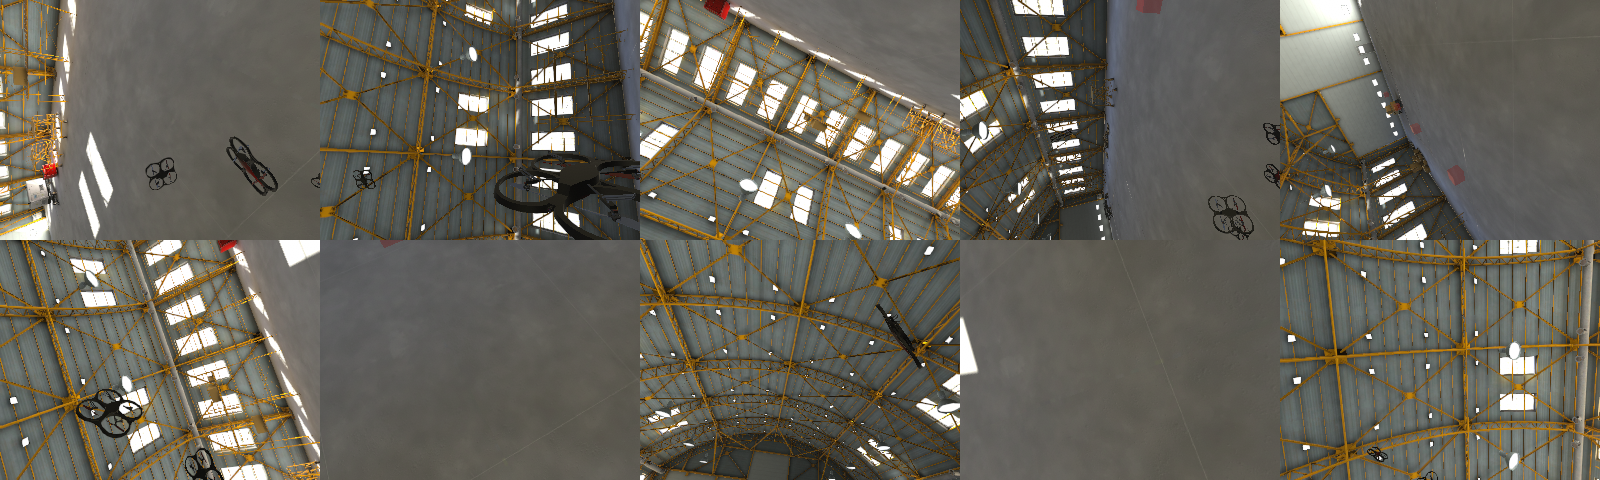
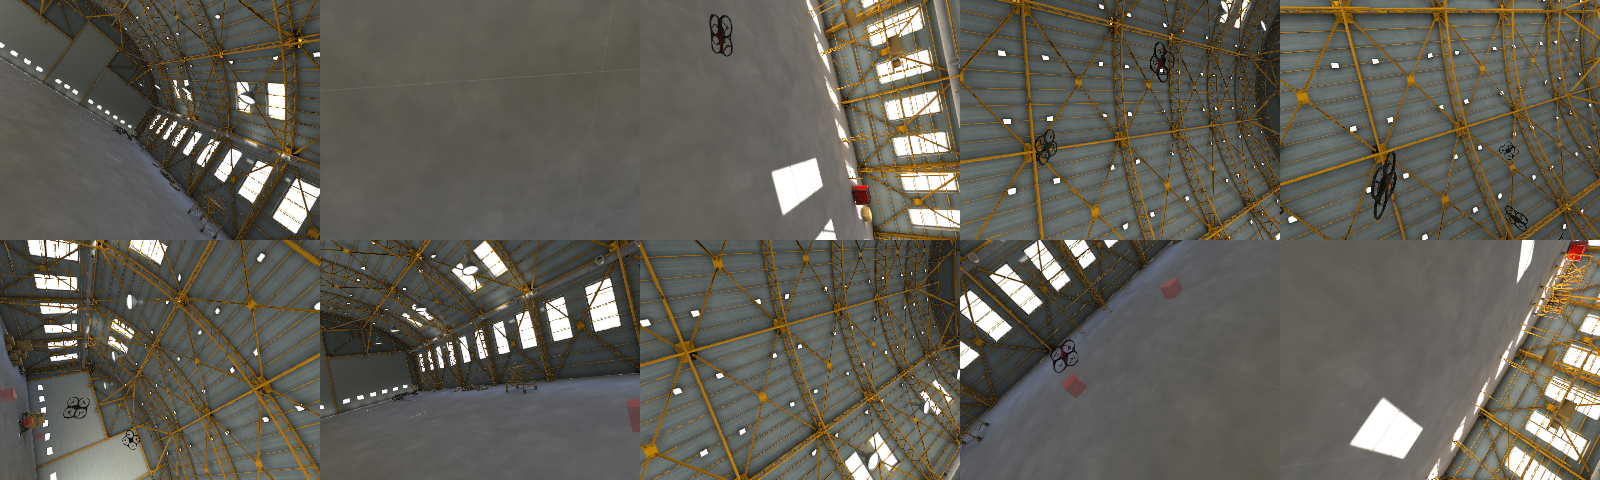
Fixed object done

diff --git a/envsim/src/visionsim_node.cpp b/envsim/src/visionsim_node.cpp
@@ -36,7 +36,7 @@ VisionSim::VisionSim(const ros::NodeHandle &nh, const ros::NodeHandle &pnh)
   ros_pilot_.getQuadrotor(&quad_);
 
   // hacky solution to pass the thrust map to the low level controller
-//  simulator_.setParamRoot(ros_pilot_.getPilot().getParams().directory_);
+  // simulator_.setParamRoot(ros_pilot_.getPilot().getParams().directory_);
 
   // Build simulation pipeline with simple model
   simulator_.updateQuad(quad_);
@@ -224,6 +224,14 @@ void VisionSim::publishImages(const QuadState &state) {
 
   std::shared_ptr<flightlib::Quadrotor> unity_quad = vision_env_.getQuadrotor();
   unity_quad->setState(unity_quad_state);
+
+
+  std::vector<std::shared_ptr<flightlib::StaticObject>> static_objects =
+    vision_env_.getObjects();
+  for (int i = 0; i < int(static_objects.size()); i++) {
+    Vector<3> obj_position = unity_quad_state.p + Vector<3>(i, 0, 0);
+    static_objects[i]->setPosition(obj_position);
+  }
 
   vision_env_.updateUnity(frame_id_);
 

diff --git a/envsim/include/envsim/visionsim.hpp b/envsim/include/envsim/visionsim.hpp
@@ -35,6 +35,7 @@
 #include "flightlib/envs/env_base.hpp"
 #include "flightlib/envs/vision_env/vision_env.hpp"
 #include "flightlib/objects/quadrotor.hpp"
+#include "flightlib/objects/static_object.hpp"
 #include "flightlib/sensors/rgb_camera.hpp"
 
 
